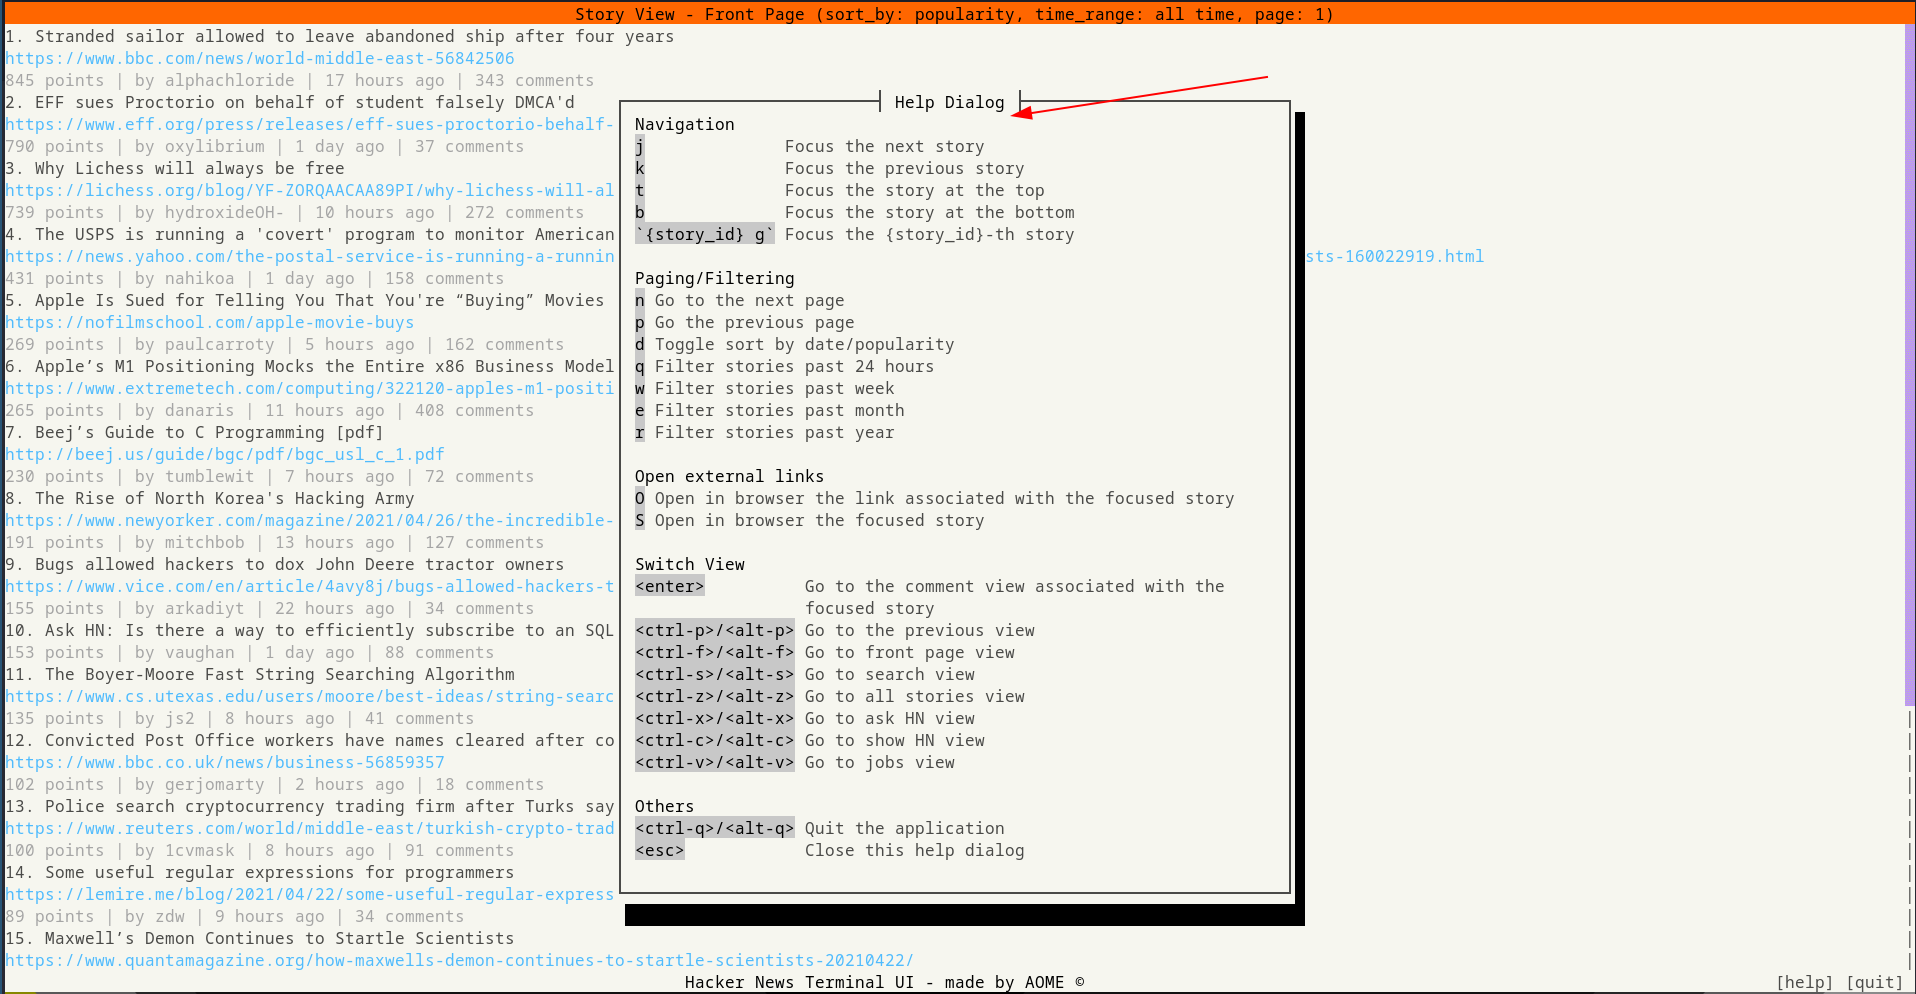
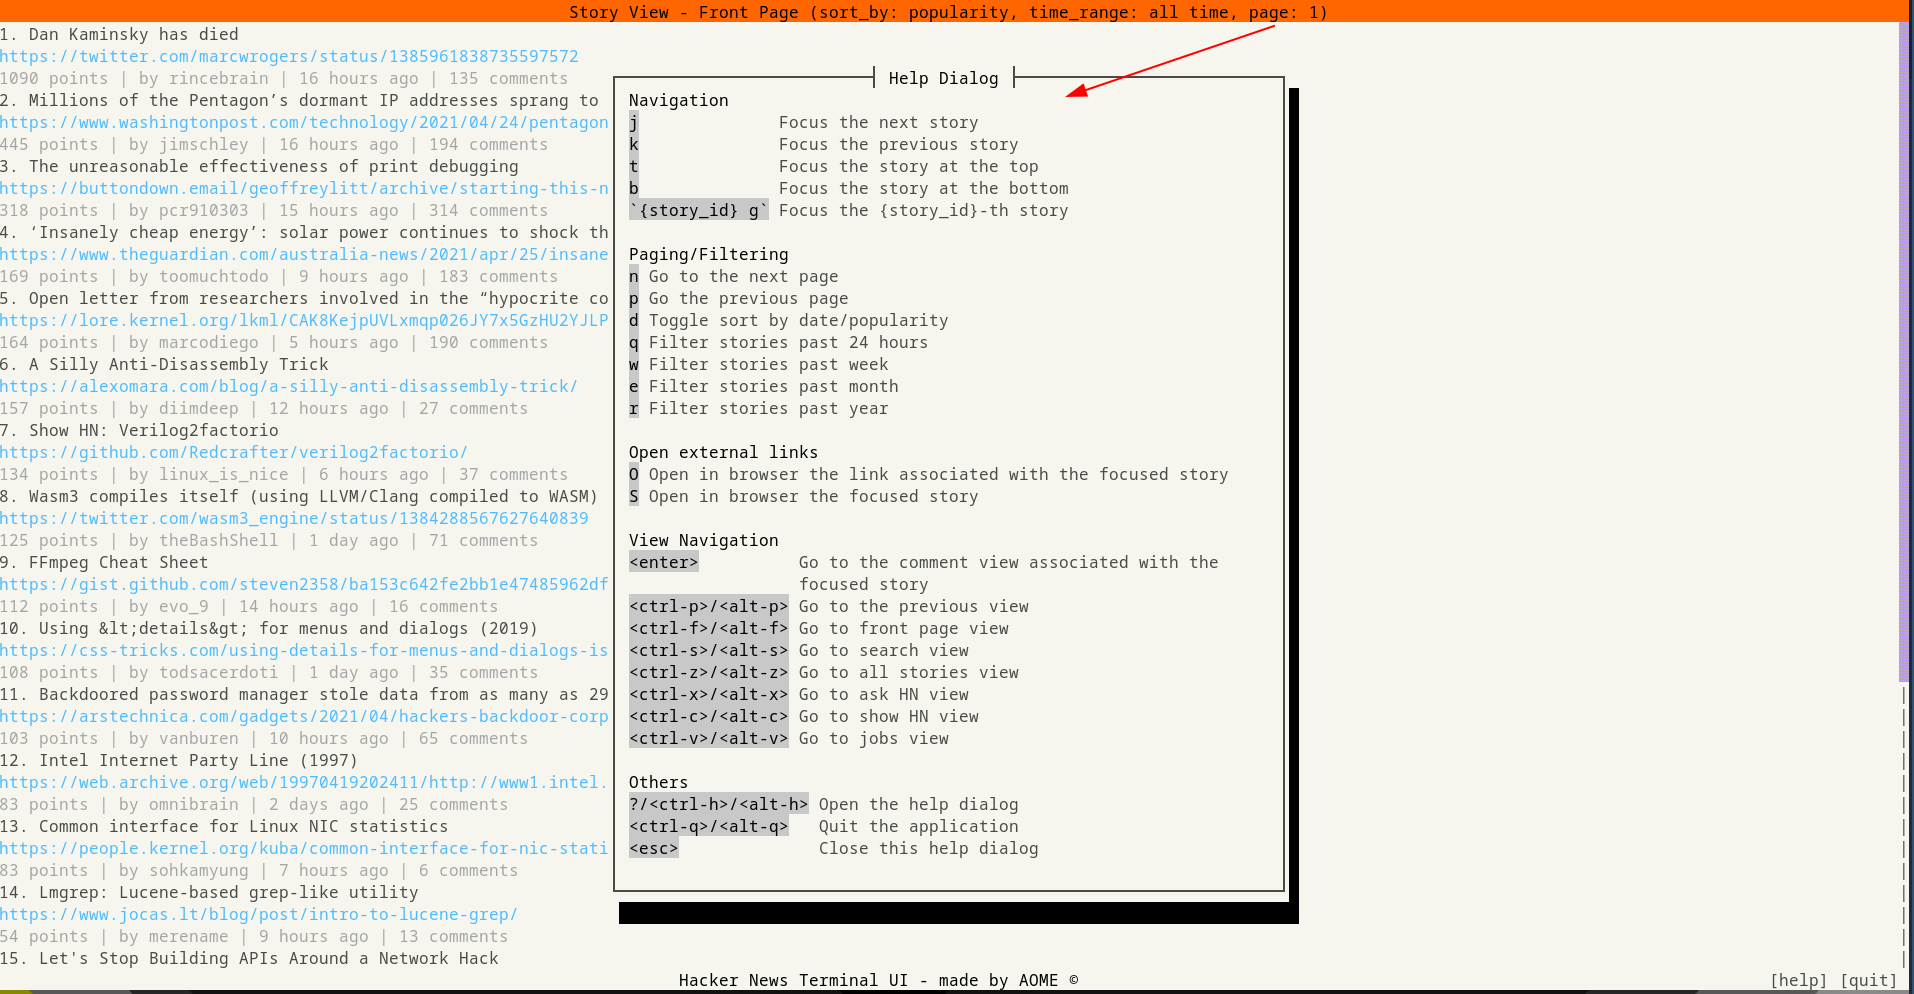
add ? as hotkey for opening help-view

Changed region(s): [[0.0, 0.0, 1.0, 1.0], [0.8631, 0.998, 0.8939, 1.0]]

diff --git a/src/view/search_view.rs b/src/view/search_view.rs
@@ -245,11 +245,11 @@ fn get_search_main_view(client: &hn_client::HNClient, cb_sink: CbSink) -> impl V
                     match *e {
                         Event::Char(c) => {
                             s.add_char(c);
-                            None
+                            Some(EventResult::Consumed(None))
                         }
                         Event::Key(Key::Backspace) => {
                             s.del_char();
-                            None
+                            Some(EventResult::Consumed(None))
                         }
                         // ignore all keys that move the focus out of the search bar
                         Event::Key(Key::Up)
@@ -312,7 +312,7 @@ pub fn get_search_view(client: &hn_client::HNClient, cb_sink: CbSink) -> impl Vi
 
     OnEventView::new(view).on_event(
         EventTrigger::from_fn(|e| match e {
-            Event::CtrlChar('h') | Event::AltChar('h') => true,
+            Event::Char('?') | Event::CtrlChar('h') | Event::AltChar('h') => true,
             _ => false,
         }),
         |s| {

diff --git a/src/main.rs b/src/main.rs
@@ -111,7 +111,7 @@ fn set_up_global_callbacks(s: &mut Cursive, client: &hn_client::HNClient) {
 
     s.set_on_post_event(
         EventTrigger::from_fn(|e| match e {
-            Event::CtrlChar('h') | Event::AltChar('h') => true,
+            Event::Char('?') | Event::CtrlChar('h') | Event::AltChar('h') => true,
             _ => false,
         }),
         |s| s.add_layer(DefaultHelpView::construct_help_view()),

diff --git a/src/view/story_view.rs b/src/view/story_view.rs
@@ -248,7 +248,7 @@ pub fn get_story_view(
     OnEventView::new(view)
         .on_pre_event(
             EventTrigger::from_fn(|e| match e {
-                Event::CtrlChar('h') | Event::AltChar('h') => true,
+                Event::Char('?') | Event::CtrlChar('h') | Event::AltChar('h') => true,
                 _ => false,
             }),
             |s| s.add_layer(StoryView::construct_help_view()),

diff --git a/src/view/comment_view.rs b/src/view/comment_view.rs
@@ -313,7 +313,7 @@ pub fn get_comment_view(
     OnEventView::new(view)
         .on_event(
             EventTrigger::from_fn(|e| match e {
-                Event::CtrlChar('h') | Event::AltChar('h') => true,
+                Event::Char('?') | Event::CtrlChar('h') | Event::AltChar('h') => true,
                 _ => false,
             }),
             |s| {

diff --git a/src/view/help_view.rs b/src/view/help_view.rs
@@ -97,6 +97,7 @@ macro_rules! other_key_shortcuts {
                 $(
                     ($k, $d),
                 )*
+                ("?/<ctrl-h>/<alt-h>", "Open the help dialog"),
                 ("<ctrl-q>/<alt-q>", "Quit the application"),
                 ("<esc>", "Close this help dialog"),
             ],

diff --git a/README.md b/README.md
@@ -107,13 +107,13 @@ A quick demo video made from `hackernews_tui` version `v0.5.0`:
 
 ## Shortcuts
 
-In each `View`, press `<ctrl-h>` to see a list of supported keyboard shortcuts and their functionalities:
+In each `View`, press `?/<ctrl-h>/<alt-h>` to see a list of supported keyboard shortcuts and their functionalities:
 
 ![Example of a Help View](https://raw.githubusercontent.com/aome510/hackernews-TUI/main/examples/assets/help_view.png)
 
 ### Global key shortcuts
 
-- `<ctrl-h>/<alt-h>`: Open the help dialog
+- `?/<ctrl-h>/<alt-h>`: Open the help dialog
 - `<ctrl-q>/<alt-q>`: Quit the application
 - `<ctrl-p>/<alt-p>`: Go to the previous view
 - `<ctrl-f>/<alt-f>`: Go to front page view
